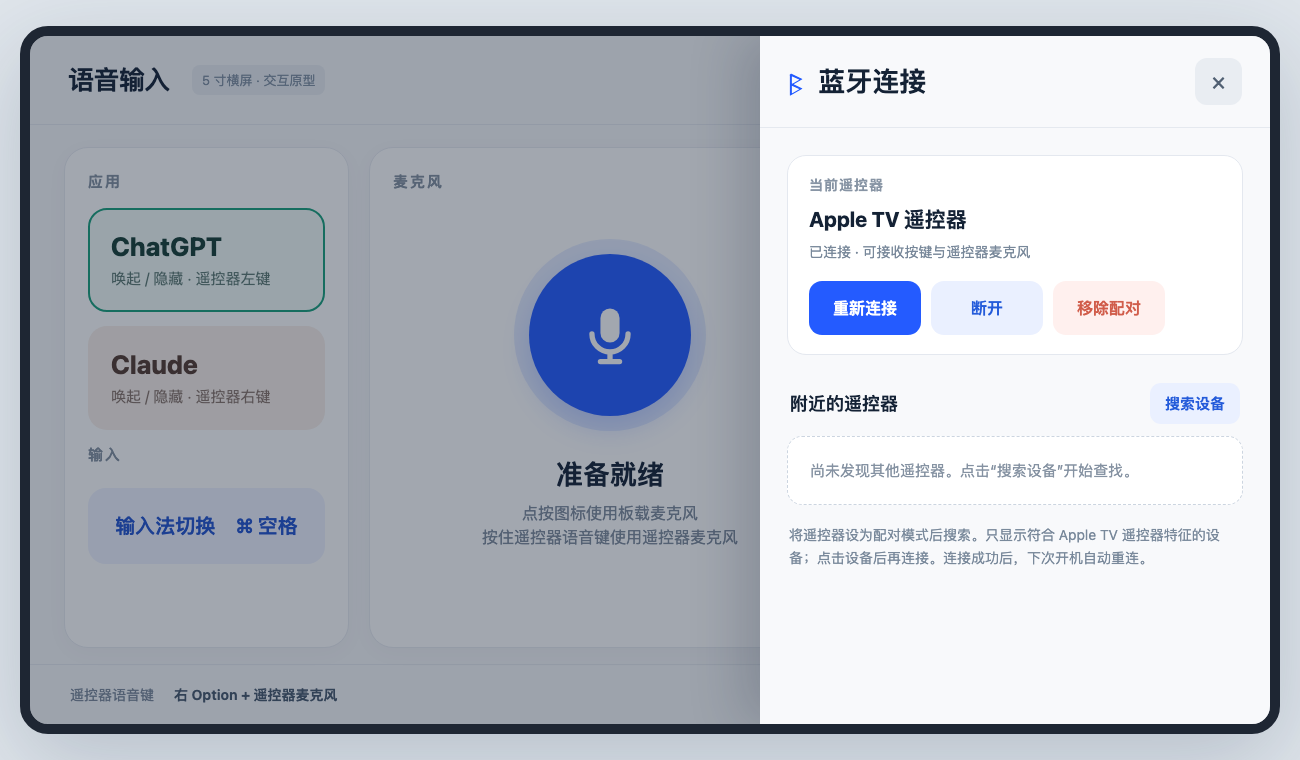
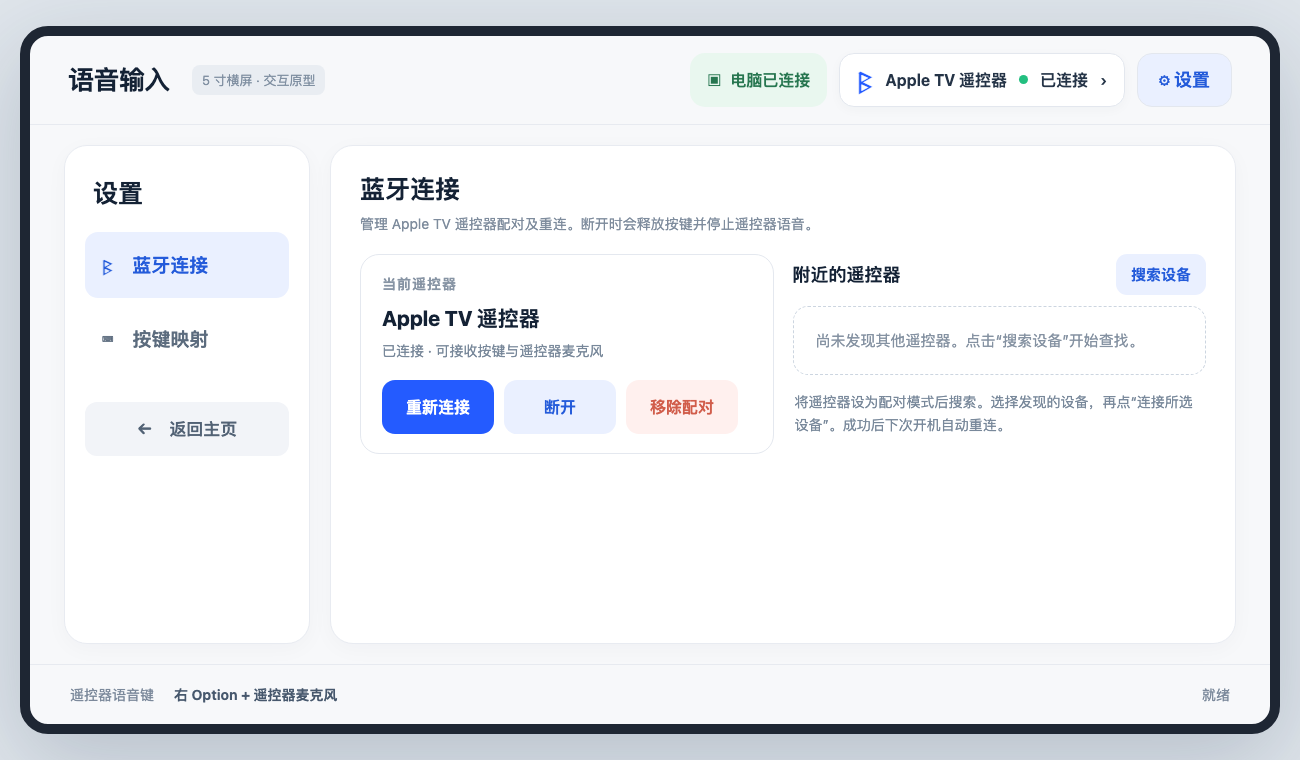
Add Bluetooth and key mapping settings page to P4 Pad prototype

diff --git a/esp32-p4-siri-pad/design/index.html b/esp32-p4-siri-pad/design/index.html
@@ -38,54 +38,131 @@
   .candidate{width:100%;padding:18px 20px;background:#fff;border:1px solid #e4e8ef;border-radius:15px;text-align:left;margin-bottom:10px;display:flex;align-items:center;gap:14px}.candidate.selected{border:2px solid #245bff}.candidate strong{font-size:18px}.candidate small{font-size:13px;color:#8693a1;display:block;margin-top:4px}.candidate .signal{margin-left:auto;color:#2dae7c;font-size:13px}
   .empty{color:#8592a2;font-size:15px;line-height:1.55;background:#fff;border:1px dashed #ccd5e0;border-radius:15px;padding:22px;margin-bottom:12px}
   .drawer-note{font-size:14px;color:#79899b;line-height:1.65;margin:18px 2px}.confirm{background:#fff5f3;border:1px solid #f0c9c1;padding:14px;border-radius:13px;color:#a74331;font-size:14px;line-height:1.5;margin-top:13px}
+  [hidden]{display:none!important}.settings-launch{height:54px;padding:0 21px;border:1px solid #e3e7ee;background:#fff;border-radius:15px;color:#253447;font-size:18px;font-weight:700}.settings-launch.active{background:#eaf0ff;color:#245bda}
+  .home-page.hidden{display:none}.settings-page{flex:1;min-height:0;display:none;grid-template-columns:246px 1fr;gap:20px;padding:20px 34px}.settings-page.active{display:grid}
+  .settings-nav,.settings-content{background:#fff;border:1px solid #e8ebf1;border-radius:23px;min-height:0;box-shadow:0 5px 22px #1b2f4b08}.settings-nav{padding:20px}.settings-nav-title{font-size:25px;font-weight:750;padding:9px 8px 21px}.settings-tab{width:100%;height:66px;text-align:left;padding:0 17px;background:transparent;border-radius:13px;font-size:19px;font-weight:700;color:#5c6c7e;margin-bottom:8px}.settings-tab.active{background:#eaf0ff;color:#245bda}.settings-back{width:100%;height:54px;border-radius:12px;background:#f2f4f8;color:#526275;font-weight:700;font-size:17px;margin-top:22px}
+  .settings-content{padding:25px 29px;overflow:hidden;display:flex;flex-direction:column}.settings-section{display:none;flex:1;min-height:0;overflow-y:auto}.settings-section.active{display:block}.section-heading{font-size:25px;font-weight:750;margin:0 0 6px}.section-subtitle{font-size:14px;color:#7e8c9d;margin:0 0 20px;line-height:1.5}
+  .bluetooth-grid{display:grid;grid-template-columns:1fr 1fr;gap:19px}.bluetooth-grid .setting-card{margin:0}.bluetooth-grid .scan-head{margin:0 0 11px}.bluetooth-grid .drawer-note{margin-top:15px}.bluetooth-grid .candidate{min-height:76px}
+  .mapping-toolbar{display:flex;align-items:center;justify-content:space-between;gap:12px;margin:0 0 12px}.mapping-toolbar .section-subtitle{margin:0}.mapping-actions{display:flex;gap:9px}.mapping-list{border:1px solid #e8ebf1;border-radius:17px;overflow:auto;max-height:432px}.mapping-row{display:grid;grid-template-columns:180px minmax(0,1fr) 78px;gap:15px;align-items:center;min-height:68px;padding:7px 14px;border-bottom:1px solid #edf0f3}.mapping-row:last-child{border-bottom:0}.mapping-row strong{font-size:17px}.mapping-row small{display:block;font-size:12px;color:#8d99a7;margin-top:3px}.mapping-value{font-size:17px;color:#245bda;font-weight:700;overflow:hidden;text-overflow:ellipsis;white-space:nowrap}.edit-map{height:42px;border-radius:11px;background:#eaf0ff;color:#245bda;font-size:15px;font-weight:700}.mapping-note{font-size:13px;color:#8795a4;margin-top:13px;line-height:1.55}
+  .editor-scrim{position:absolute;inset:0;background:#15264087;z-index:10;display:grid;place-items:center}.editor{width:min(555px,90%);background:#fff;border-radius:23px;padding:27px 30px;box-shadow:0 25px 75px #0e254b45}.editor-head{display:flex;align-items:center;gap:12px;margin-bottom:23px}.editor h2{font-size:24px;margin:0}.editor label{display:block;color:#617083;font-size:15px;font-weight:700;margin:17px 0 8px}.editor select{width:100%;height:53px;border:1px solid #dbe2eb;border-radius:12px;background:#f8fafc;font:inherit;font-size:17px;color:#213247;padding:0 13px}.modifier-row{display:flex;flex-wrap:wrap;gap:9px}.modifier{height:46px;padding:0 14px;border-radius:11px;background:#f0f3f7;color:#53647a;font-weight:700;border:2px solid transparent}.modifier.active{background:#eaf0ff;color:#245bda;border-color:#7298ff}.editor-preview{padding:14px 16px;margin-top:20px;border-radius:12px;background:#f1f5fa;color:#344962;font-weight:700}.editor-actions{display:flex;justify-content:flex-end;gap:11px;margin-top:23px}.editor-error{color:#c5443c;font-size:14px;margin-top:10px}
   @media(max-width:900px){body{padding:0}.frame{border-width:0;border-radius:0;width:100vw;height:100vh;aspect-ratio:auto}header{padding:0 18px}.prototype,.usb{display:none}main{padding:14px;gap:10px;grid-template-columns:27% 39% 34%}.panel{padding:14px}.app-btn{padding:9px;height:88px}.app-name{font-size:20px}.app-note{font-size:12px}.mic-ring{width:min(18vw,145px);height:min(18vw,145px)}.key{height:82px}.key.enter{height:100px}.key.space{height:65px}.drawer{width:min(510px,100%)}}
 </style>
 </head>
 <body>
 <div class="frame" role="application" aria-label="Siri Voice Pad 5 寸横屏界面原型">
-  <header><div class="brand">语音输入</div><div class="prototype">5 寸横屏 · 交互原型</div><div class="header-right"><div class="usb" id="usb">▣ <span>电脑已连接</span></div><button class="connection" id="open-settings" aria-label="打开蓝牙设置"><span class="bt-symbol">ᛒ</span><span>Apple TV 遥控器</span><span class="dot" id="bt-dot"></span><span id="bt-short">已连接</span><span aria-hidden="true">›</span></button></div></header>
-  <main>
-    <section class="panel" aria-label="应用和输入法"><div class="eyebrow">应用</div><button class="app-btn selected" id="gpt"><span class="app-name">ChatGPT</span><span class="app-note">唤起 / 隐藏 · 遥控器左键</span></button><button class="app-btn claude" id="claude"><span class="app-name">Claude</span><span class="app-note">唤起 / 隐藏 · 遥控器右键</span></button><div class="eyebrow" style="margin-top:12px">输入</div><button class="small-key" id="input">输入法切换　⌘ 空格</button></section>
+  <header><div class="brand">语音输入</div><div class="prototype">5 寸横屏 · 交互原型</div><div class="header-right"><div class="usb" id="usb">▣ <span>电脑已连接</span></div><button class="connection" id="open-settings" aria-label="打开蓝牙设置"><span class="bt-symbol">ᛒ</span><span>Apple TV 遥控器</span><span class="dot" id="bt-dot"></span><span id="bt-short">已连接</span><span aria-hidden="true">›</span></button><button class="settings-launch" id="settings-launch">⚙ 设置</button></div></header>
+  <main class="home-page" id="home-page">
+    <section class="panel" aria-label="应用和输入法"><div class="eyebrow">应用</div><button class="app-btn" id="gpt"><span class="app-name">ChatGPT</span><span class="app-note">唤起 / 隐藏 · 遥控器左键</span></button><button class="app-btn claude" id="claude"><span class="app-name">Claude</span><span class="app-note">唤起 / 隐藏 · 遥控器右键</span></button><div class="eyebrow" style="margin-top:12px">输入</div><button class="small-key" id="input">输入法切换　⌘ 空格</button></section>
     <section class="panel mic-panel" aria-label="麦克风"><div class="eyebrow" style="position:absolute;top:23px;left:23px">麦克风</div><div class="mic-ring"><button class="mic" id="mic" aria-label="切换板载麦克风"><svg viewBox="0 0 64 64" fill="none" stroke="currentColor" stroke-width="5" stroke-linecap="round" stroke-linejoin="round" aria-hidden="true"><rect x="23" y="7" width="18" height="32" rx="9" fill="currentColor" stroke="none"/><path d="M15 31a17 17 0 0 0 34 0M32 49v8M23 57h18"/></svg></button></div><div class="mic-state" id="mic-state">准备就绪</div><div class="mic-sub" id="mic-sub">点按图标使用板载麦克风<br>按住遥控器语音键使用遥控器麦克风</div></section>
     <section class="panel controls" aria-label="键盘按键"><div class="eyebrow">键盘</div><div class="key-row"><button class="key" id="left" aria-label="左箭头">←</button><button class="key" id="right" aria-label="右箭头">→</button></div><button class="key enter" id="enter">↵　回车</button><button class="key space" id="space">空格</button><div class="hint">遥控器减号 / 加号：左右移动<br>中央确认：回车　播放 / 暂停：空格</div></section>
   </main>
+  <section class="settings-page" id="settings-page" aria-label="设置页面">
+    <nav class="settings-nav"><div class="settings-nav-title">设置</div><button class="settings-tab active" id="tab-bluetooth">ᛒ　蓝牙连接</button><button class="settings-tab" id="tab-mapping">⌨　按键映射</button><button class="settings-back" id="settings-back">←　返回主页</button></nav>
+    <div class="settings-content">
+      <section class="settings-section active" id="bluetooth-section" aria-label="蓝牙连接设置"><h2 class="section-heading">蓝牙连接</h2><p class="section-subtitle">管理 Apple TV 遥控器配对及重连。断开时会释放按键并停止遥控器语音。</p><div class="bluetooth-grid"><div class="setting-card"><div class="setting-label">当前遥控器</div><div class="device-title" id="device-title">Apple TV 遥控器</div><div class="device-detail" id="device-detail">已连接 · 可接收按键与遥控器麦克风</div><div class="setting-actions"><button class="action primary" id="connect">重新连接</button><button class="action" id="disconnect">断开</button><button class="action danger" id="forget">移除配对</button></div><div class="confirm" id="confirm" hidden>移除后需要重新配对遥控器。<div class="setting-actions"><button class="action danger" id="confirm-forget">确定移除</button><button class="action" id="cancel-forget">取消</button></div></div></div><div><div class="scan-head"><span>附近的遥控器</span><button id="scan">搜索设备</button></div><div id="candidates"></div><div class="drawer-note">将遥控器设为配对模式后搜索。选择发现的设备，再点“连接所选设备”。成功后下次开机自动重连。</div></div></div></section>
+      <section class="settings-section" id="mapping-section" aria-label="快捷键映射设置"><h2 class="section-heading">按键映射</h2><div class="mapping-toolbar"><p class="section-subtitle">点“编辑”配置遥控器按键；修改会保存在这个浏览器中。</p><div class="mapping-actions"><button class="action" id="export-mapping">导出配置</button><button class="action" id="reset-mapping">恢复默认</button></div></div><div class="mapping-list" id="mapping-list"></div><div class="mapping-note">快捷键可选择 Control、Option、Command、Shift 与主键。语音键可设为左／右 Option 加遥控器麦克风。此页是交互原型，尚未写入新板固件。</div></section>
+    </div>
+  </section>
   <footer><span>遥控器语音键</span><span class="footer-value">右 Option + 遥控器麦克风</span><span class="footer-right" id="toast">就绪</span></footer>
-  <div class="scrim" id="scrim"></div>
-  <aside class="drawer" id="drawer" aria-label="蓝牙连接设置" aria-hidden="true"><div class="drawer-header"><span class="bt-symbol">ᛒ</span><span class="drawer-title">蓝牙连接</span><button class="close" id="close-settings" aria-label="关闭蓝牙设置">×</button></div><div class="drawer-body"><div class="setting-card"><div class="setting-label">当前遥控器</div><div class="device-title" id="device-title">Apple TV 遥控器</div><div class="device-detail" id="device-detail">已连接 · 可接收按键与遥控器麦克风</div><div class="setting-actions"><button class="action primary" id="connect">重新连接</button><button class="action" id="disconnect">断开</button><button class="action danger" id="forget">移除配对</button></div><div class="confirm" id="confirm" hidden>移除后需要重新配对遥控器。<div class="setting-actions"><button class="action danger" id="confirm-forget">确定移除</button><button class="action" id="cancel-forget">取消</button></div></div></div><div class="scan-head"><span>附近的遥控器</span><button id="scan">搜索设备</button></div><div id="candidates"></div><div class="drawer-note">将遥控器设为配对模式后搜索。只显示符合 Apple TV 遥控器特征的设备；点击设备后再连接。连接成功后，下次开机自动重连。</div></div></aside>
+  <div class="editor-scrim" id="editor-scrim" hidden><div class="editor" role="dialog" aria-modal="true" aria-labelledby="editor-title"><div class="editor-head"><h2 id="editor-title">编辑按键</h2><button class="close" id="editor-close" aria-label="关闭编辑器">×</button></div><label for="action-type">按下后执行</label><select id="action-type"><option value="keyboard">发送键盘按键 / 快捷键</option><option value="voice">使用遥控器麦克风</option><option value="none">不执行动作</option></select><div id="keyboard-fields"><label>修饰键（可多选）</label><div class="modifier-row" id="modifier-row"></div><label for="main-key">主键</label><select id="main-key"></select></div><div id="voice-fields" hidden><label for="voice-option">语音输入触发键</label><select id="voice-option"><option value="rightOption">右 Option</option><option value="leftOption">左 Option</option></select></div><div class="editor-preview" id="editor-preview"></div><div class="editor-error" id="editor-error" hidden></div><div class="editor-actions"><button class="action" id="editor-cancel">取消</button><button class="action primary" id="editor-save">保存映射</button></div></div></div>
 </div>
 <script>
-// Browser-only interaction prototype. Real BLE and USB callbacks belong in the P4 firmware.
+// Browser-only interaction prototype. Real BLE, HID and persistent NVS settings belong in the P4 firmware.
 const $=id=>document.getElementById(id);
-let connected=true,known=true,scanning=false,selected=false,boardMic=false,remoteMic=false;
-function toast(message){$('toast').textContent=message;clearTimeout(toast.timer);toast.timer=setTimeout(()=>$('toast').textContent='就绪',2400)}
-function render(){
- $('bt-dot').className='dot '+(connected?'':scanning?'search':'off');
- $('bt-short').textContent=connected?'已连接':scanning?'搜索中':'未连接';
+const remoteButtons=[
+ ['remoteLeft','圆环左键','ChatGPT'],['remoteRight','圆环右键','Claude'],['select','中央确认','回车'],
+ ['play','播放 / 暂停','空格'],['volDown','减号','左箭头'],['volUp','加号','右箭头'],
+ ['tv','小电视','输入法切换'],['voice','语音键','遥控器麦克风'],['up','圆环上键','可配置'],
+ ['down','圆环下键','可配置'],['back','返回键','可配置'],['mute','静音键','可配置'],['power','电源键','可配置']
+];
+const keyNames={Space:'空格',Enter:'回车',ArrowLeft:'左箭头',ArrowRight:'右箭头',ArrowUp:'上箭头',ArrowDown:'下箭头',Escape:'Esc',Tab:'Tab',Backspace:'退格',Delete:'删除'};
+for(let code=65;code<=90;code++)keyNames['Key'+String.fromCharCode(code)]=String.fromCharCode(code);
+for(let i=1;i<=12;i++)keyNames['F'+i]='F'+i;
+const modNames={ctrl:'⌃',alt:'⌥',meta:'⌘',shift:'⇧'};
+const defaultMapping={
+ remoteLeft:{type:'keyboard',key:'KeyG',mods:['ctrl','alt','meta']},remoteRight:{type:'keyboard',key:'KeyC',mods:['ctrl','alt','meta']},
+ select:{type:'keyboard',key:'Enter',mods:[]},play:{type:'keyboard',key:'Space',mods:[]},
+ volDown:{type:'keyboard',key:'ArrowLeft',mods:[]},volUp:{type:'keyboard',key:'ArrowRight',mods:[]},
+ tv:{type:'keyboard',key:'Space',mods:['meta']},voice:{type:'voice',option:'rightOption'},
+ up:{type:'none'},down:{type:'none'},back:{type:'none'},mute:{type:'none'},power:{type:'none'}
+};
+const clone=o=>JSON.parse(JSON.stringify(o));
+function validAction(action){
+ if(!action||typeof action!=='object')return false;
+ if(action.type==='none')return true;
+ if(action.type==='voice')return ['rightOption','leftOption'].includes(action.option);
+ return action.type==='keyboard'&&Object.hasOwn(keyNames,action.key)&&Array.isArray(action.mods)&&action.mods.every(m=>Object.hasOwn(modNames,m))&&new Set(action.mods).size===action.mods.length;
+}
+function loadMapping(){try{let raw=JSON.parse(localStorage.getItem('siri-pad-p4-mapping-v1'));if(raw&&typeof raw==='object'&&remoteButtons.every(([id])=>validAction(raw[id])))return raw}catch(e){}return clone(defaultMapping)}
+let mapping=loadMapping(),connected=true,known=true,scanning=false,found=false,selected=false,boardMic=false,remoteMic=false,editing=null,editDraft=null;
+function saveMapping(){try{localStorage.setItem('siri-pad-p4-mapping-v1',JSON.stringify(mapping));return true}catch(e){toast('浏览器不能保存本地设置');return false}}
+function formatAction(a){if(a.type==='none')return '未设置';if(a.type==='voice')return (a.option==='leftOption'?'左':'右')+' Option + 遥控器麦克风';return a.mods.map(m=>modNames[m]).join('')+keyNames[a.key]}
+function toast(message){$('toast').textContent=message;clearTimeout(toast.timer);toast.timer=setTimeout(()=>$('toast').textContent='就绪',2700)}
+function renderBluetooth(){
+ $('bt-dot').className='dot '+(connected?'':scanning?'search':'off');$('bt-short').textContent=connected?'已连接':scanning?'搜索中':'未连接';
  $('device-title').textContent=known?'Apple TV 遥控器':'未配对遥控器';
  $('device-detail').textContent=connected?'已连接 · 可接收按键与遥控器麦克风':known?'已配对 · 当前未连接':'请搜索并选择遥控器';
- $('connect').textContent=known?'重新连接':'连接所选设备';$('connect').disabled=!known&&!selected;
- $('disconnect').disabled=!connected;$('forget').disabled=!known;$('scan').disabled=scanning;
- $('scan').textContent=scanning?'正在搜索…':'搜索设备';
- $('mic').classList.toggle('active',boardMic||remoteMic);
- $('mic-state').textContent=remoteMic?'遥控器麦克风输入中':boardMic?'板载麦克风输入中':'准备就绪';
- $('mic-sub').innerHTML=remoteMic?'松开遥控器语音键即停止':boardMic?'再次点按麦克风图标停止':'点按图标使用板载麦克风<br>按住遥控器语音键使用遥控器麦克风';
- $('candidates').innerHTML=scanning?'<div class="empty">正在查找附近的 Apple TV 遥控器…</div>':selected?'<button class="candidate selected" id="candidate"><span class="bt-symbol">ᛒ</span><span><strong>Apple TV 遥控器</strong><small>已发现 · 等待连接</small></span><span class="signal">信号良好</span></button>':'<div class="empty">尚未发现其他遥控器。点击“搜索设备”开始查找。</div>';
+ $('connect').textContent=selected?'连接所选设备':known?'重新连接':'连接所选设备';$('connect').disabled=!known&&!selected;
+ $('disconnect').disabled=!connected;$('forget').disabled=!known;$('scan').disabled=scanning;$('scan').textContent=scanning?'正在搜索…':'搜索设备';
+ $('candidates').innerHTML=scanning?'<div class="empty">正在查找附近的 Apple TV 遥控器…</div>':found?'<button class="candidate'+(selected?' selected':'')+'" id="candidate"><span class="bt-symbol">ᛒ</span><span><strong>Apple TV 遥控器</strong><small>'+(selected?'已选择 · 等待连接':'已发现 · 点击选择')+'</small></span><span class="signal">信号良好</span></button>':'<div class="empty">尚未发现其他遥控器。点击“搜索设备”开始查找。</div>';
+ if(found)$('candidate').onclick=()=>{selected=true;renderBluetooth();toast('已选择遥控器（模拟）')};
 }
-function drawer(open){$('drawer').classList.toggle('open',open);$('scrim').classList.toggle('open',open);$('drawer').setAttribute('aria-hidden',String(!open))}
-$('open-settings').onclick=()=>drawer(true);$('close-settings').onclick=$('scrim').onclick=()=>drawer(false);
-$('scan').onclick=()=>{scanning=true;selected=false;render();setTimeout(()=>{scanning=false;selected=true;render();toast('发现 Apple TV 遥控器')},1800)};
-$('connect').onclick=()=>{connected=true;known=true;selected=false;render();toast('遥控器已连接（模拟）')};
-$('disconnect').onclick=()=>{connected=false;remoteMic=false;render();toast('遥控器已断开（模拟）')};
+function renderMain(){
+ $('mic').classList.toggle('active',boardMic||remoteMic);$('mic-state').textContent=remoteMic?'遥控器麦克风输入中':boardMic?'板载麦克风输入中':'准备就绪';
+ $('mic-sub').innerHTML=remoteMic?'松开遥控器语音键即停止':boardMic?'再次点按麦克风图标停止':'点按图标使用板载麦克风<br>按住遥控器语音键使用遥控器麦克风';
+ $('gpt').querySelector('.app-note').textContent='唤起 / 隐藏 · '+formatAction(mapping.remoteLeft);
+ $('claude').querySelector('.app-note').textContent='唤起 / 隐藏 · '+formatAction(mapping.remoteRight);
+ $('input').textContent='输入法切换　'+formatAction(mapping.tv);
+ document.querySelector('.footer-value').textContent=formatAction(mapping.voice);
+}
+function renderMapping(){
+ const list=$('mapping-list');list.replaceChildren();
+ for(const [id,label,note] of remoteButtons){
+  const row=document.createElement('div');row.className='mapping-row';
+  const name=document.createElement('div');const strong=document.createElement('strong');strong.textContent=label;const small=document.createElement('small');small.textContent=note;name.append(strong,small);
+  const value=document.createElement('div');value.className='mapping-value';value.textContent=formatAction(mapping[id]);
+  const edit=document.createElement('button');edit.className='edit-map';edit.textContent='编辑';edit.setAttribute('aria-label','编辑'+label+'映射');edit.onclick=()=>openEditor(id);
+  row.append(name,value,edit);list.append(row);
+ }
+}
+function showSettings(tab){
+ const open=tab!==null;$('home-page').classList.toggle('hidden',open);$('settings-page').classList.toggle('active',open);$('settings-launch').classList.toggle('active',open);
+ for(const name of ['bluetooth','mapping']){$('tab-'+name).classList.toggle('active',tab===name);$(name+'-section').classList.toggle('active',tab===name)}
+ if(open)renderMapping();
+}
+function renderEditor(){
+ $('action-type').value=editDraft.type;$('keyboard-fields').hidden=editDraft.type!=='keyboard';$('voice-fields').hidden=editDraft.type!=='voice';
+ $('editor-preview').textContent='当前设置：'+formatAction(editDraft);$('main-key').value=editDraft.key||'Space';$('voice-option').value=editDraft.option||'rightOption';
+ $('modifier-row').replaceChildren();for(const [mod,name] of Object.entries(modNames)){
+  const button=document.createElement('button');button.className='modifier'+((editDraft.mods||[]).includes(mod)?' active':'');button.textContent=name+' '+({ctrl:'Control',alt:'Option',meta:'Command',shift:'Shift'}[mod]);button.onclick=()=>{
+   const mods=new Set(editDraft.mods||[]);mods.has(mod)?mods.delete(mod):mods.add(mod);editDraft.mods=[...mods];renderEditor()
+  };$('modifier-row').append(button);
+ }
+}
+function openEditor(id){editing=id;editDraft=clone(mapping[id]);$('editor-title').textContent='编辑 '+remoteButtons.find(([key])=>key===id)[1];$('editor-error').hidden=true;$('editor-scrim').hidden=false;renderEditor()}
+function closeEditor(){$('editor-scrim').hidden=true;editing=null;editDraft=null}
+for(const [code,label] of Object.entries(keyNames)){const option=document.createElement('option');option.value=code;option.textContent=label;$('main-key').append(option)}
+$('open-settings').onclick=() => showSettings('bluetooth');$('settings-launch').onclick=()=>showSettings('bluetooth');$('settings-back').onclick=()=>showSettings(null);
+$('tab-bluetooth').onclick=()=>showSettings('bluetooth');$('tab-mapping').onclick=()=>showSettings('mapping');
+$('scan').onclick=()=>{scanning=true;found=false;selected=false;renderBluetooth();setTimeout(()=>{scanning=false;found=true;renderBluetooth();toast('发现 Apple TV 遥控器，请点选（模拟）')},1800)};
+$('connect').onclick=()=>{connected=true;known=true;selected=false;renderBluetooth();toast('遥控器已连接（模拟）')};
+$('disconnect').onclick=()=>{connected=false;remoteMic=false;renderBluetooth();renderMain();toast('遥控器已断开（模拟）')};
 $('forget').onclick=()=>$('confirm').hidden=false;$('cancel-forget').onclick=()=>$('confirm').hidden=true;
-$('confirm-forget').onclick=()=>{connected=false;known=false;selected=false;remoteMic=false;$('confirm').hidden=true;render();toast('配对记录已移除（模拟）')};
-$('mic').onclick=()=>{boardMic=!boardMic;remoteMic=false;render()};
-$('gpt').onclick=()=>{boardMic=remoteMic=false;$('gpt').classList.add('selected');$('claude').classList.remove('selected');render();toast('发送 ⌃⌥⌘G（模拟）')};
-$('claude').onclick=()=>{boardMic=remoteMic=false;$('claude').classList.add('selected');$('gpt').classList.remove('selected');render();toast('发送 ⌃⌥⌘C（模拟）')};
-$('input').onclick=()=>{boardMic=remoteMic=false;render();toast('发送 ⌘空格（模拟）')};
-for(const [id,key] of [['left','←'],['right','→'],['enter','回车'],['space','空格']])$(''+id).onclick=()=>toast('发送 '+key+'（模拟）');
-document.addEventListener('keydown',e=>{if(e.key==='Escape')drawer(false);if(e.key==='v'&&connected){remoteMic=true;boardMic=false;render()}});
-document.addEventListener('keyup',e=>{if(e.key==='v'){remoteMic=false;render()}});
-render();if(location.hash==='#bluetooth')drawer(true);
+$('confirm-forget').onclick=()=>{connected=false;known=false;found=false;selected=false;remoteMic=false;$('confirm').hidden=true;renderBluetooth();renderMain();toast('配对记录已移除（模拟）')};
+$('action-type').onchange=e=>{const type=e.target.value;editDraft=type==='keyboard'?{type,key:'Space',mods:[]}:type==='voice'?{type,option:'rightOption'}:{type};renderEditor()};
+$('main-key').onchange=e=>{editDraft.key=e.target.value;renderEditor()};$('voice-option').onchange=e=>{editDraft.option=e.target.value;renderEditor()};
+$('editor-close').onclick=$('editor-cancel').onclick=closeEditor;$('editor-scrim').onclick=e=>{if(e.target===$('editor-scrim'))closeEditor()};
+$('editor-save').onclick=()=>{if(!validAction(editDraft)){$('editor-error').textContent='请选择有效的按键组合';$('editor-error').hidden=false;return}mapping[editing]=clone(editDraft);saveMapping();renderMapping();renderMain();closeEditor();toast('映射已保存到浏览器（原型）')};
+$('reset-mapping').onclick=()=>{if(!confirm('恢复所有遥控器按键的默认映射？'))return;mapping=clone(defaultMapping);saveMapping();renderMapping();renderMain();toast('已恢复默认映射')};
+$('export-mapping').onclick=()=>{const blob=new Blob([JSON.stringify({version:1,mapping},null,2)],{type:'application/json'}),url=URL.createObjectURL(blob),a=document.createElement('a');a.href=url;a.download='siri-pad-p4-mapping.json';a.click();setTimeout(()=>URL.revokeObjectURL(url),1000);toast('已导出映射配置')};
+$('mic').onclick=()=>{boardMic=!boardMic;remoteMic=false;renderMain()};
+$('gpt').onclick=()=>{boardMic=remoteMic=false;$('gpt').classList.add('selected');$('claude').classList.remove('selected');renderMain();toast('发送 '+formatAction(mapping.remoteLeft)+'（模拟）')};
+$('claude').onclick=()=>{boardMic=remoteMic=false;$('claude').classList.add('selected');$('gpt').classList.remove('selected');renderMain();toast('发送 '+formatAction(mapping.remoteRight)+'（模拟）')};
+$('input').onclick=()=>{boardMic=remoteMic=false;renderMain();toast('发送 '+formatAction(mapping.tv)+'（模拟）')};
+for(const [id,key] of [['left','←'],['right','→'],['enter','回车'],['space','空格']])$(id).onclick=()=>toast('发送 '+key+'（模拟）');
+document.addEventListener('keydown',e=>{if(e.key==='Escape'){closeEditor();showSettings(null)}if(e.key==='v'&&connected){remoteMic=true;boardMic=false;renderMain()}});
+document.addEventListener('keyup',e=>{if(e.key==='v'){remoteMic=false;renderMain()}});
+renderBluetooth();renderMain();renderMapping();if(location.hash==='#bluetooth')showSettings('bluetooth');if(location.hash==='#mapping'||location.hash==='#editor')showSettings('mapping');if(location.hash==='#editor')openEditor('remoteLeft');
 </script>
 </body>
 </html>

diff --git a/esp32-p4-siri-pad/README.md b/esp32-p4-siri-pad/README.md
@@ -7,7 +7,7 @@
 ## 主界面
 
 - 左侧保留 ChatGPT／Claude 唤起隐藏按钮及输入法切换；中部为板载麦克风点按开关和语音状态；右侧放大左箭头、右箭头、回车、空格按钮。
-- 顶栏分别显示电脑 USB 连接和 Apple TV 遥控器蓝牙状态。点按蓝牙状态打开连接设置。
+- 顶栏分别显示电脑 USB 连接和 Apple TV 遥控器蓝牙状态。点按蓝牙状态直接打开设置页的蓝牙分区，点“设置”进入完整设置页。
 - 遥控器映射保持现有行为：圆环左／右为 ChatGPT／Claude；中央为回车；播放暂停为空格；减号／加号为左／右箭头；小电视为输入法切换；按住语音键为右 Option 加遥控器麦克风。点按屏幕麦克风使用板载麦克风，再点停止。
 - 高亮的应用按钮只代表最近由 Pad 发出的快捷键，不能代表电脑实际前台状态。
 
@@ -18,9 +18,18 @@
 3. 搜索超时、配对失败、断连、重连中必须分别显示实际状态。断连时立即释放 HID 按键和右 Option，结束语音。
 4. 遥控器麦克风与板载麦克风互斥；切换应用／输入法时先释放语音修饰键。
 
+## 按键映射设置
+
+- 设置页列出圆环左右、上下、中央确认、播放暂停、音量加减、小电视、语音、返回、静音和电源键；未使用的键默认“未设置”。
+- 点“编辑”可设置为单键／组合快捷键、遥控器语音键（左／右 Option），或不执行动作。组合快捷键在触屏上选择 Control、Option、Command、Shift 和主键；无需连接实体键盘输入配置。
+- 每项保存后，原型会更新主页快捷键说明，并用浏览器 `localStorage` 保留设置；可恢复默认或导出 JSON。原型的保存**只在当前浏览器生效**，尚未写入 P4 的 NVS，也不会改变电脑收到的真实按键。固件移植时需实现 NVS 校验、按下／释放和断连释放，并复用这份默认映射。
+- 已用 Chromium 验证原型中的映射保存、重新加载、恢复默认，以及蓝牙搜索、选择、连接流程；这些检查只验证交互状态，不代表板载 BLE 已通。
+
 ## 硬件移植边界
 
 此板的 ESP32-P4 没有内置蓝牙。BLE 来自板载 ESP32-C6，经 SDIO/ESP-Hosted 与 P4 通信；需要先在**实物**上验证 C6 固件与 P4 主机的 BLE 扫描、连接、配对、通知和断连恢复。旧 S3 上的 NimBLE 初始化不能直接复制。厂家示例只给出 Wi-Fi 主机兼容范围，没有标定本板 C6 从机固件与 BLE 中心设备组合。遥控器麦克风数据量较高，连接间隔和连续收包还需实测。
+
+2026-09-29 已从新接入的 `/dev/cu.usbmodem5B901242401` 串口只读观察到 `ESP-ROM:esp32p4-eco7-20260109`，可与旧 S3 Pad 的 `1020BA4658B4-PAD1` 串口区分；尚未探测 Flash、改动配对或烧录。
 
 屏幕为 HX8394 720×1280 MIPI-DSI；横屏使用 1280×720 旋转和对应 GT911 触控坐标。板载双麦克风由 ES7210 输入，与旧板 ES8311 单麦克风路径不同。电脑键盘和 USB 麦克风应接板上 **USB OTG** 口；**USB TO UART** 口用于供电、烧录和日志。两口不要混淆。
 

diff --git a/README.md b/README.md
@@ -51,7 +51,7 @@
 | 目录 | 内容与验证范围 |
 |---|---|
 | [esp32-siri-pad](esp32-siri-pad/README.md) | 当前 ESP-IDF 触屏固件：USB 键盘、UAC2 麦克风、板载 Opus 解码、双麦克风切换、中文触屏界面 |
-| [esp32-p4-siri-pad](esp32-p4-siri-pad/README.md) | 新 5 寸 P4 板的 1280×720 横屏交互原型与蓝牙连接设置设计；尚未移植、烧录或实机验收 |
+| [esp32-p4-siri-pad](esp32-p4-siri-pad/README.md) | 新 5 寸 P4 板的 1280×720 横屏交互原型，含蓝牙连接和按键映射设置；尚未移植、烧录或实机验收 |
 | [esp32-siri-test](esp32-siri-test/README.md) | 早期 Arduino 蓝牙与麦克风串口验证程序，保留用于协议排查 |
 | [siri-usb-bridge](siri-usb-bridge/README.md) | 树莓派 USB gadget 原型及固定版本蓝牙接收器；因供电问题暂停实机推进 |
 
